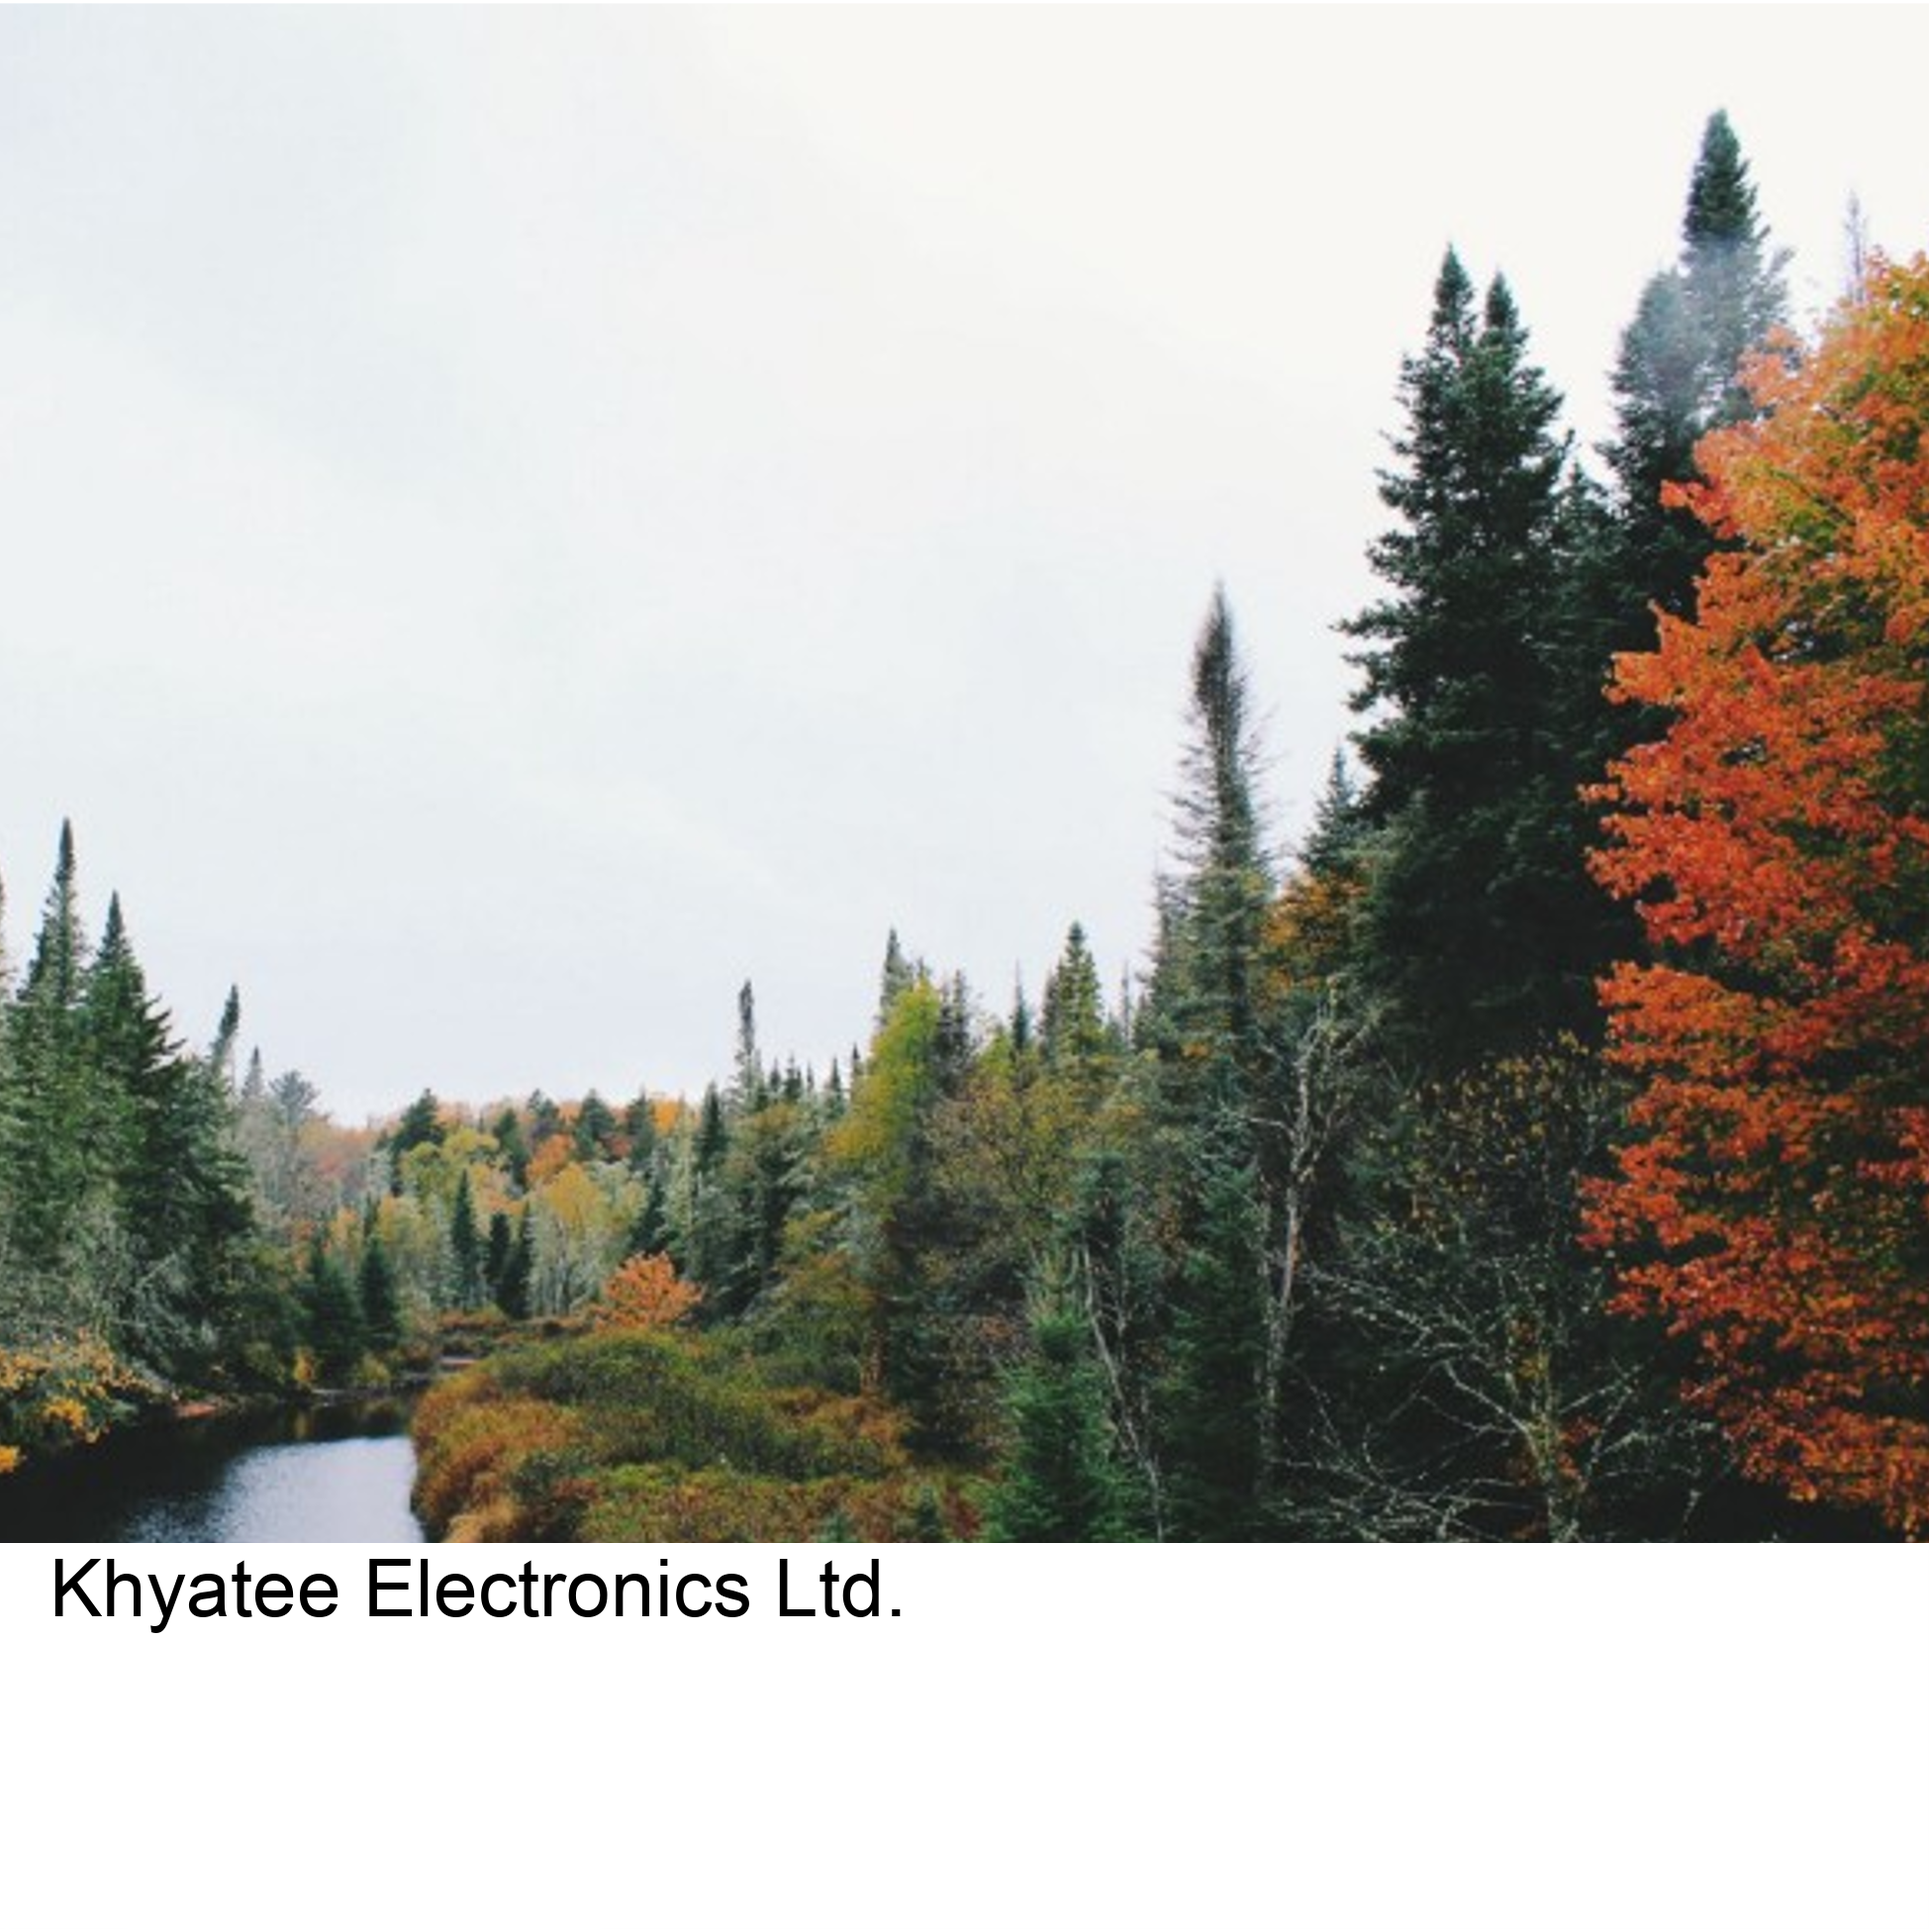
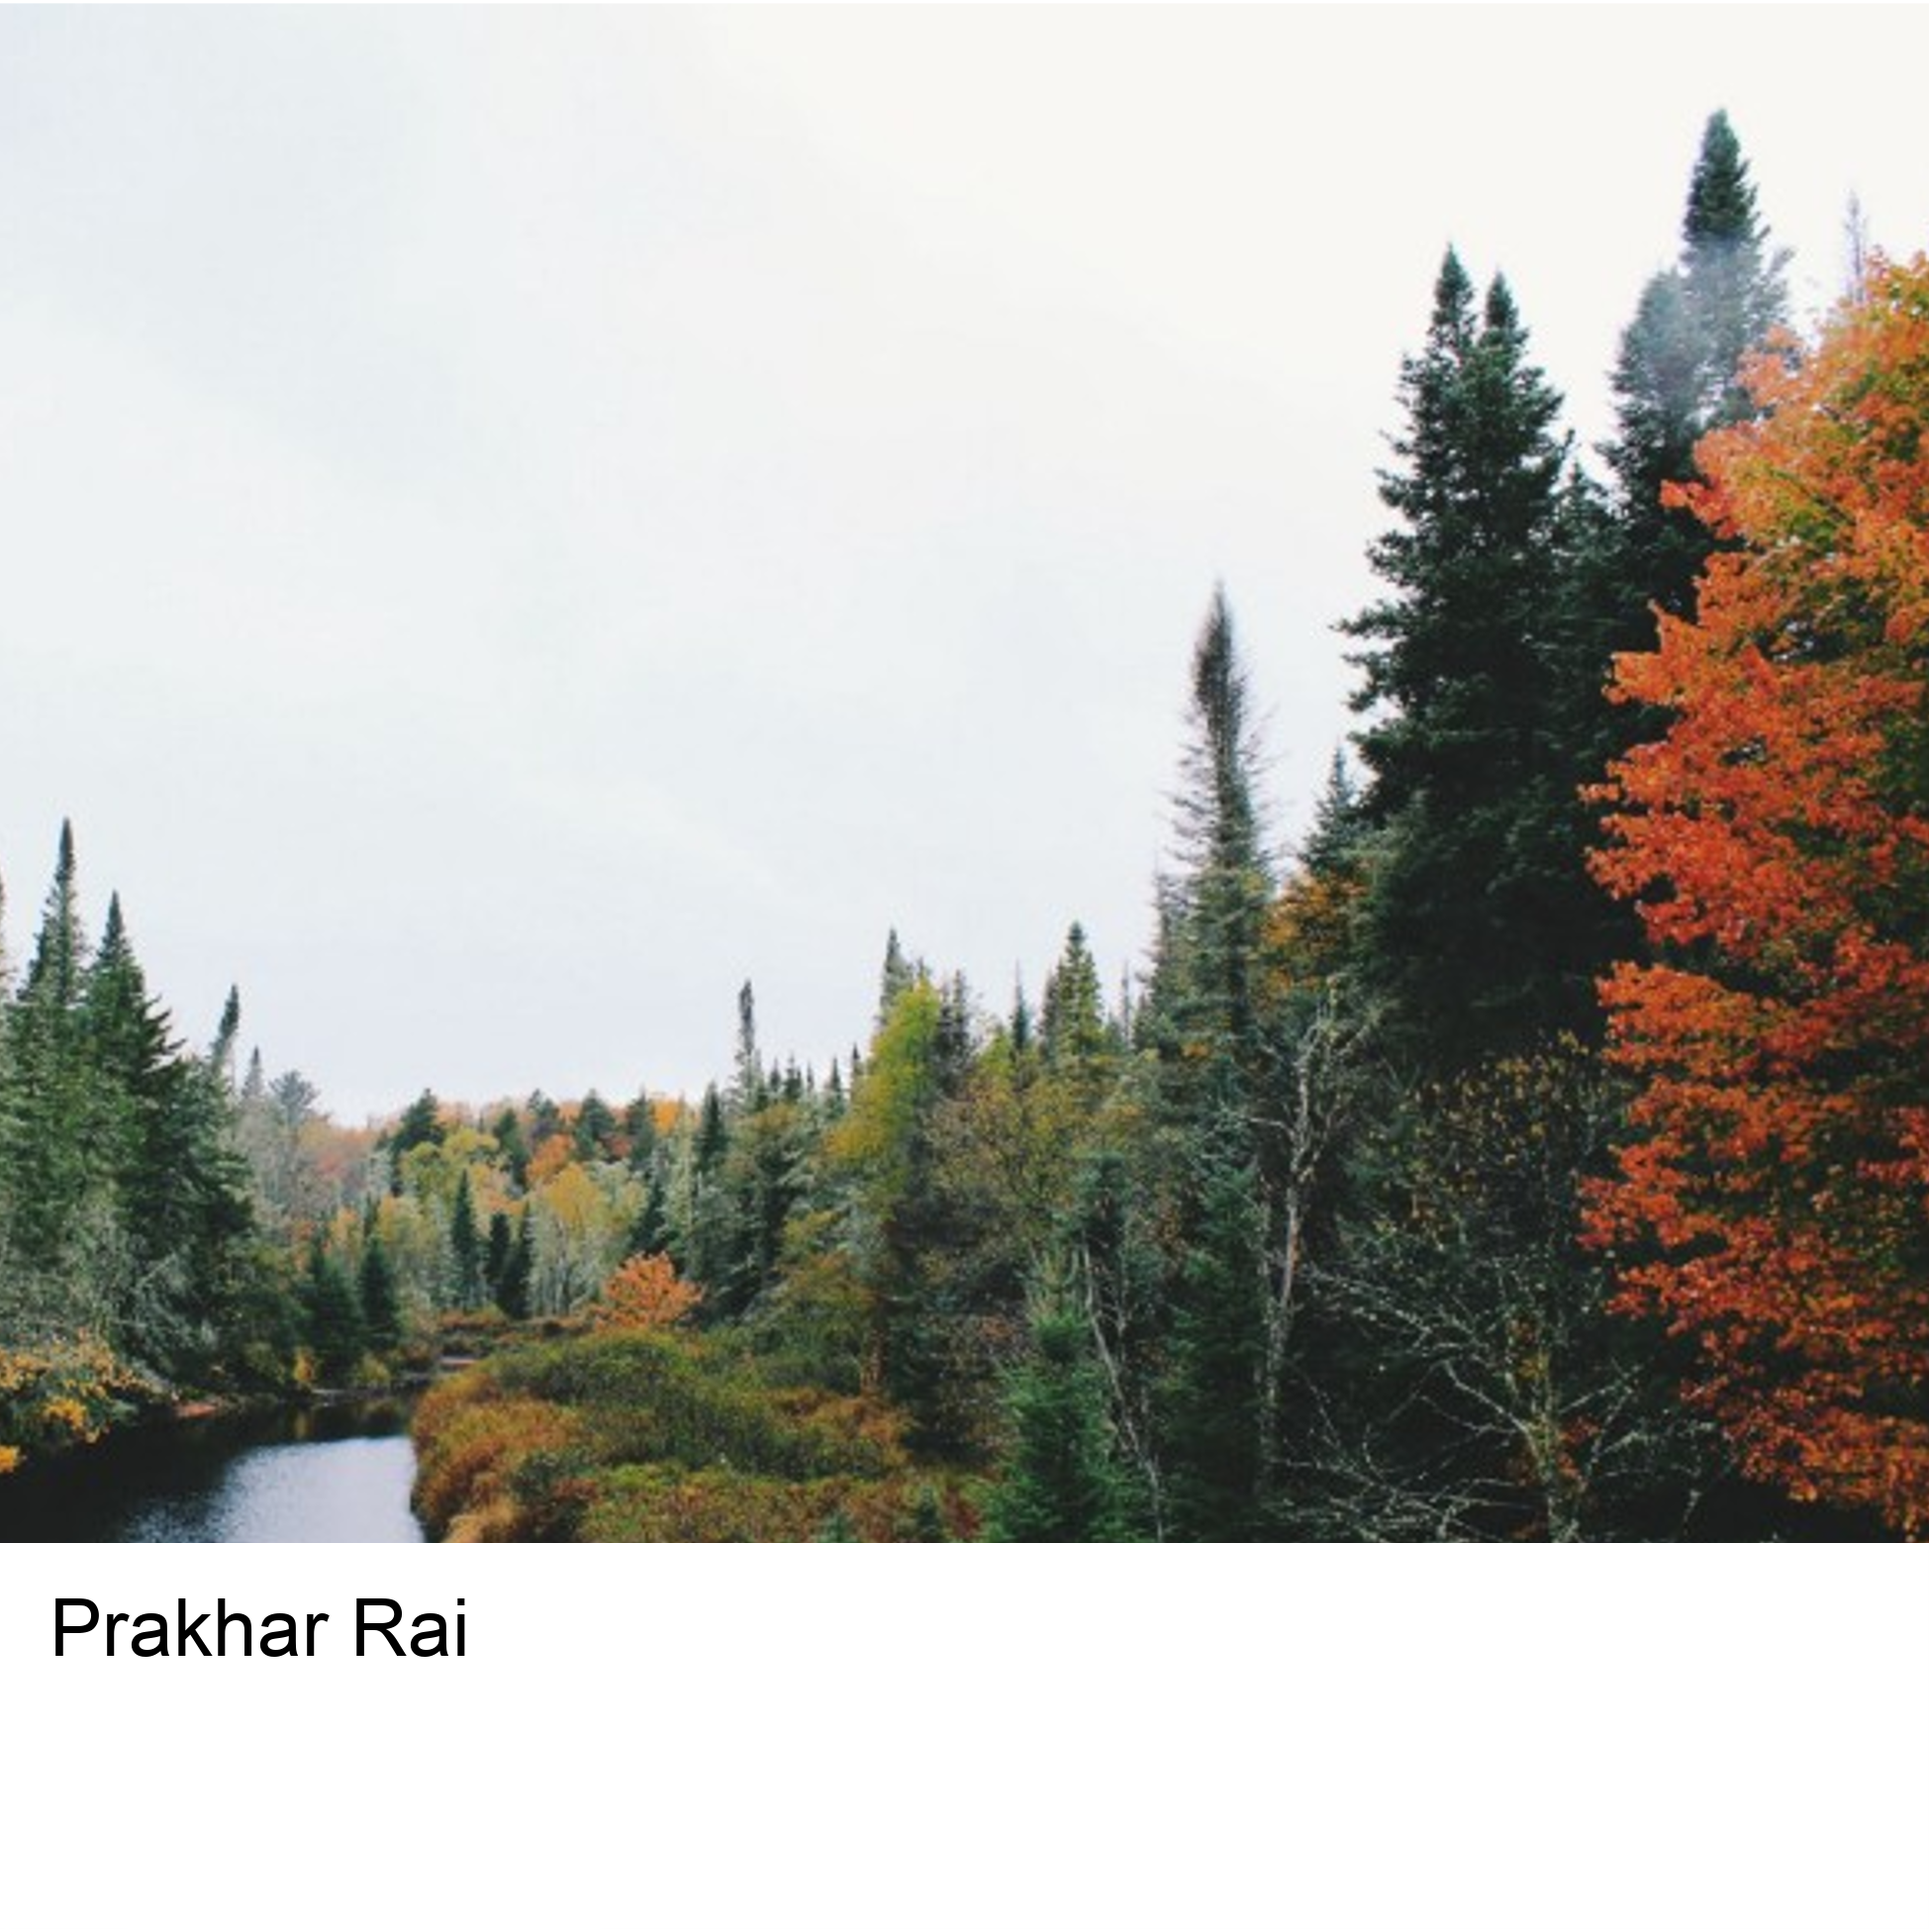
added java class to replace python script

Changed region(s): [[0.0308, 0.8004, 0.4618, 0.862]]

diff --git a/PyScript.py b/PyScript.py
@@ -1,13 +1,41 @@
 from PIL import Image, ImageFont, ImageDraw
+from openpyxl import load_workbook
 
-my_image = Image.open("Picture1.png")
-title_font = ImageFont.truetype('arial.ttf', 80)
+data_file = 'Details.xlsx'
 
-title_text = "Khyatee Electronics Ltd."
+# Load the entire workbook.
+wb = load_workbook(data_file)
 
+# Load one worksheet.
+ws = wb['Sheet1']
+all_rows = list(ws.rows)
 
+# for cell in all_rows[0]:
+#     print(cell.value)
 
-image_editable = ImageDraw.Draw(my_image)
-image_editable.text((50,1560), title_text, (0, 0, 0), font=title_font)
+for i in range(len(all_rows)):
+    my_image = Image.open("Picture1.png")
+    title_font = ImageFont.truetype('arial.ttf', 80)
 
-my_image.save("result.png")
+    cell1 = all_rows[i+1][0]
+    title_text1 = cell1.value
+
+    cell2 = all_rows[i+1][1]
+    title_text2 = cell2.value
+
+    cell3 = all_rows[i+1][2]
+    title_text3 = str(cell3.value)
+
+    image_editable = ImageDraw.Draw(my_image)
+    image_editable.text((50, 1600), title_text1, (0, 0, 0), font=title_font)
+    my_image.save("result"+str(i)+".png")
+    my_image = Image.open("result"+str(i)+".png")
+
+    image_editable = ImageDraw.Draw(my_image)
+    image_editable.text((50, 1700), title_text2, (0, 0, 0), font=title_font)
+    my_image.save("result"+str(i)+".png")
+    my_image = Image.open("result"+str(i)+".png")
+
+    image_editable = ImageDraw.Draw(my_image)
+    image_editable.text((50, 1800), title_text3, (0, 0, 0), font=title_font)
+    my_image.save("result"+str(i)+".png")

diff --git a/tempCodeRunnerFile.py b/tempCodeRunnerFile.py
@@ -1,0 +1,41 @@
+from PIL import Image, ImageFont, ImageDraw
+from openpyxl import load_workbook
+
+data_file = 'Details.xlsx'
+
+# Load the entire workbook.
+wb = load_workbook(data_file)
+
+# Load one worksheet.
+ws = wb['Sheet1']
+all_rows = list(ws.rows)
+
+# for cell in all_rows[0]:
+#     print(cell.value)
+
+for i in range(len(all_rows)):
+    my_image = Image.open("Picture1.png")
+    title_font = ImageFont.truetype('arial.ttf', 80)
+
+    cell1 = all_rows[i+1][0]
+    title_text1 = cell1.value
+
+    cell2 = all_rows[i+1][1]
+    title_text2 = cell2.value
+
+    cell3 = all_rows[i+1][2]
+    title_text3 = str(cell3.value)
+
+    image_editable = ImageDraw.Draw(my_image)
+    image_editable.text((50, 1600), title_text1, (0, 0, 0), font=title_font)
+    my_image.save("result"+str(i)+".png")
+    my_image = Image.open("result"+str(i)+".png")
+
+    image_editable = ImageDraw.Draw(my_image)
+    image_editable.text((50, 1700), title_text2, (0, 0, 0), font=title_font)
+    my_image.save("result"+str(i)+".png")
+    my_image = Image.open("result"+str(i)+".png")
+
+    image_editable = ImageDraw.Draw(my_image)
+    image_editable.text((50, 1800), title_text3, (0, 0, 0), font=title_font)
+    my_image.save("result"+str(i)+".png")

diff --git a/JavaFile.java b/JavaFile.java
@@ -1,0 +1,35 @@
+import java.awt.Color;
+import java.awt.Font;
+import java.awt.Graphics;
+import java.awt.image.BufferedImage;
+import java.io.File;
+
+import javax.imageio.ImageIO;
+
+public class JavaFile {
+    public static void main(String[] args) throws Exception {
+
+        // read the image
+        BufferedImage image = ImageIO.read(new File("Picture1.png"));
+
+        // get the Graphics object
+        Graphics g = image.getGraphics();
+
+        // set font
+        g.setColor(Color.BLACK);
+        g.setFont(new Font("Calibri", Font.PLAIN, 100));
+
+        // display the text at the coordinates
+        write(g);
+
+        // write the image
+        ImageIO.write(image, "png", new File("image1.png"));
+    }
+
+    private static void write(Graphics g) {
+        g.drawString("Atharva Patilpate", 50, 1650);
+        g.drawString("Pune", 50, 1750);
+        g.drawString("9999999999", 50, 1850);
+        g.dispose();
+    }
+}
